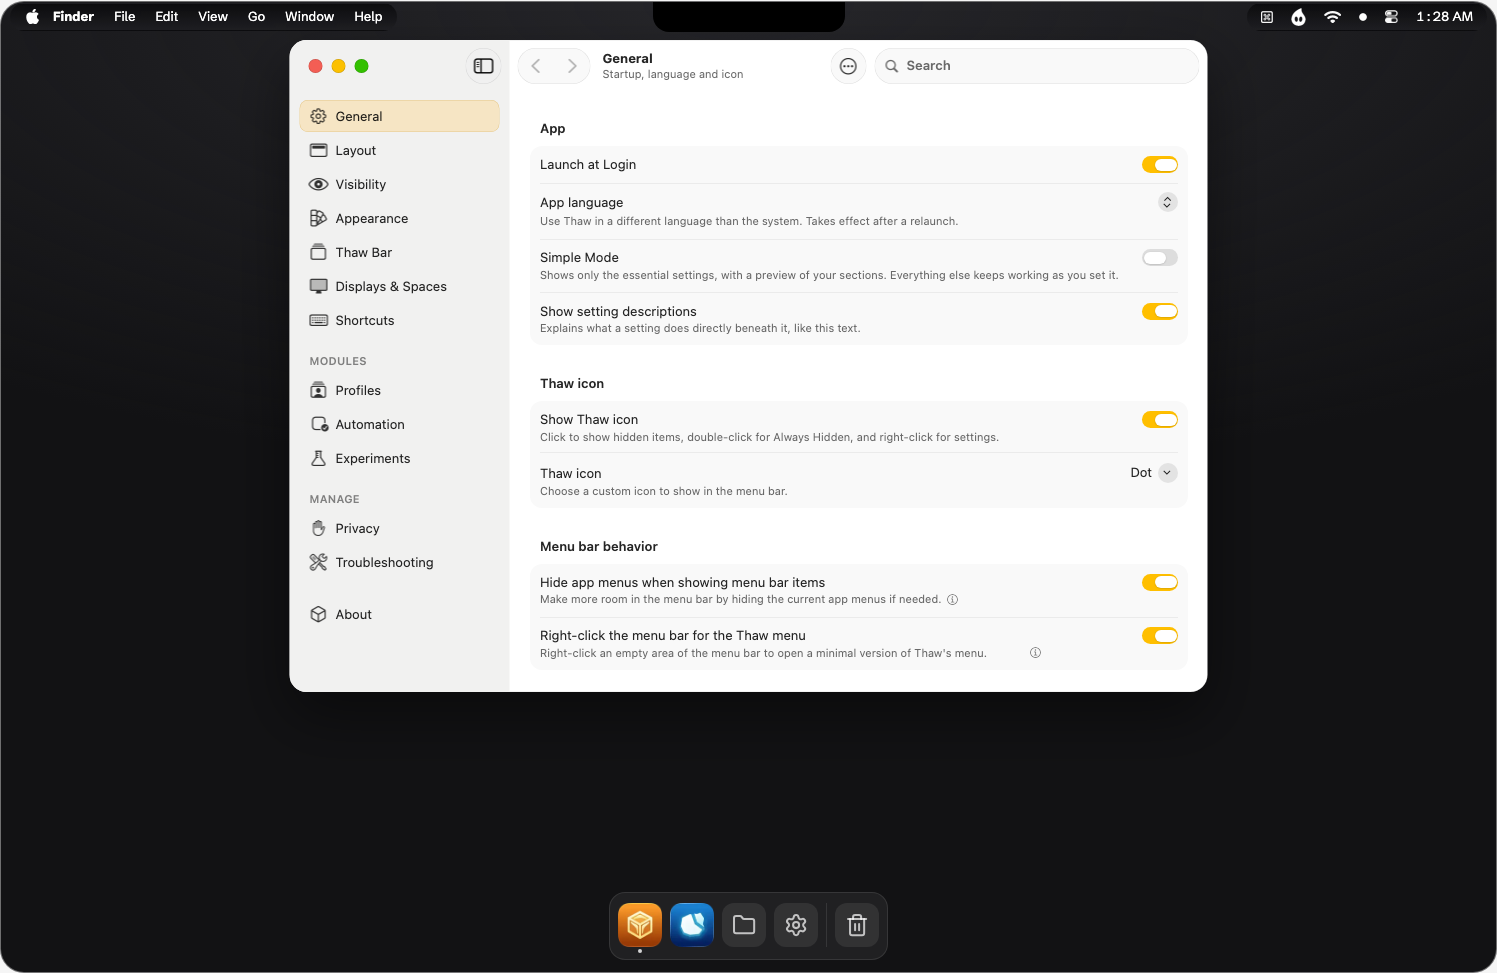
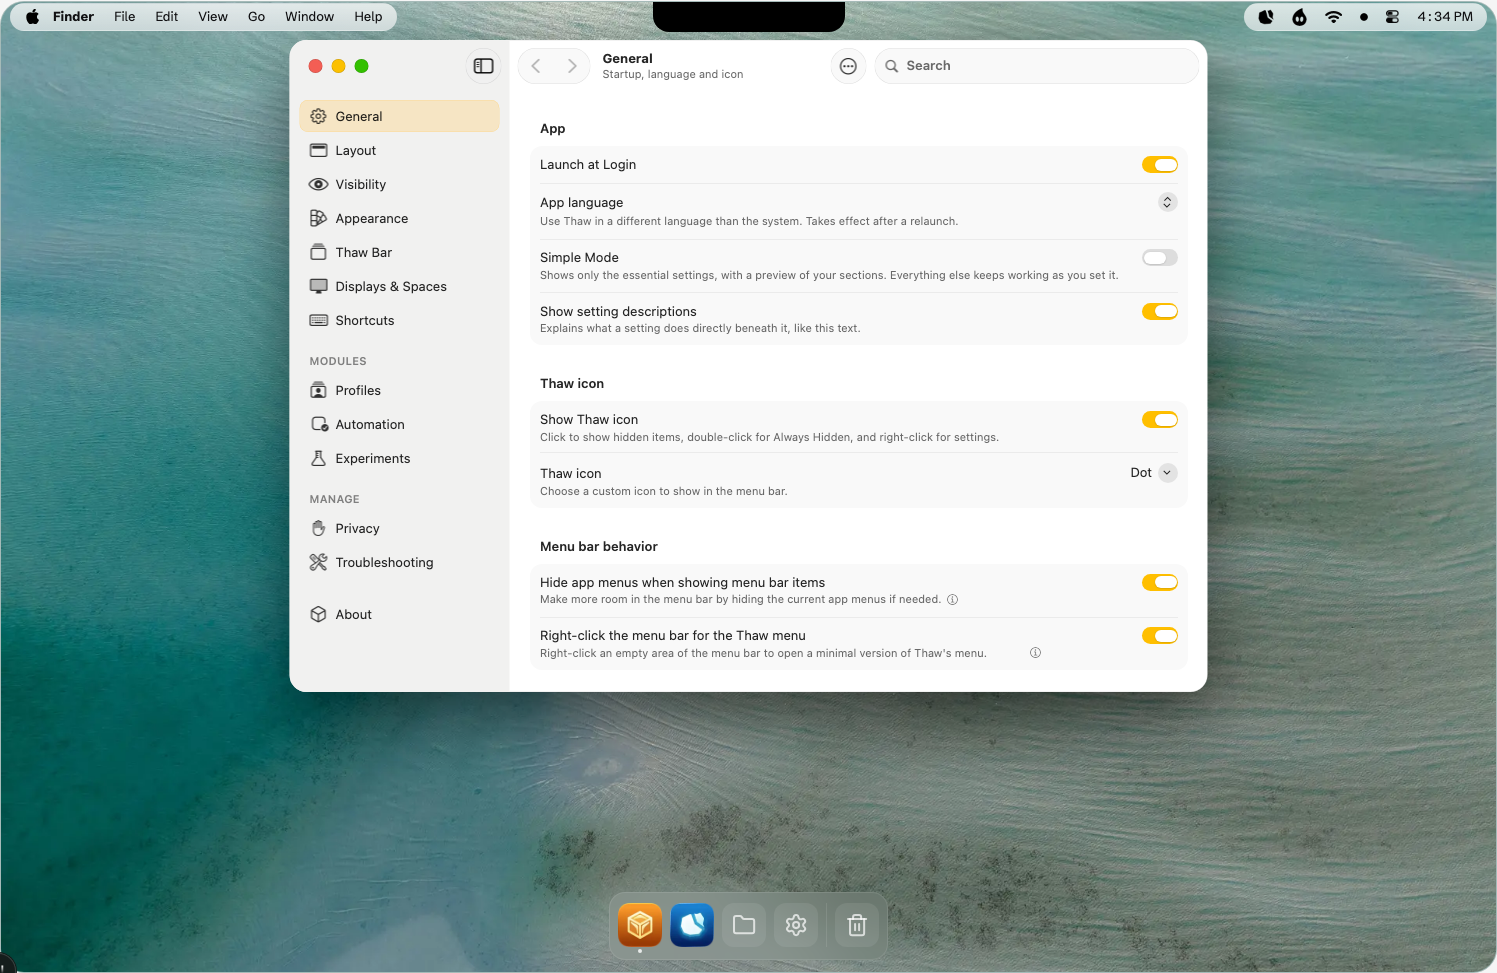
feat(demo): a photograph for each appearance behind the mock desktop
The wallpaper is a photograph in light mode and another in dark, credited on
Built with, and the menu bar's glass follows the appearance. The phone's still
is taken in both. Built with also credits Strix.

diff --git a/components/desktop/menu-bar.tsx b/components/desktop/menu-bar.tsx
@@ -179,7 +179,7 @@ export function MenuBar({
               aria-pressed={model.hiddenShown}
               aria-label={model.hiddenShown ? 'Hide menu bar items' : 'Show hidden menu bar items'}
               tabIndex={showIcon ? 0 : -1}
-              className={`bar-item overflow-hidden outline-none transition-[max-width,opacity] duration-300 focus-visible:ring-2 focus-visible:ring-white motion-reduce:transition-none ${
+              className={`bar-item overflow-hidden outline-none transition-[max-width,opacity] duration-300 focus-visible:ring-2 focus-visible:ring-current motion-reduce:transition-none ${
                 showIcon ? 'max-w-12 opacity-100' : 'pointer-events-none max-w-0 opacity-0'
               }`}
             >
@@ -324,7 +324,7 @@ function Item({
           // Under the item's own left edge, wherever in it the click landed.
           onFloeMenu({ clientX: event.currentTarget.getBoundingClientRect().left });
         }}
-        className={`bar-item outline-none focus-visible:ring-2 focus-visible:ring-white ${
+        className={`bar-item outline-none focus-visible:ring-2 focus-visible:ring-current ${
           dragging ? 'bar-item-dragging' : ''
         }`}
         title={barItems[id]?.name}
@@ -361,13 +361,13 @@ function Surface({
   const tint = tints[appearance.color];
   const shaped = appearance.shape !== 'none';
   const style: CSSProperties = {
+    // Without a tint it is glass, which follows the appearance (.menu-glass in global.css).
     background:
       appearance.tint === 'solid'
         ? `color-mix(in oklab, ${tint.from} 80%, transparent)`
         : appearance.tint === 'gradient'
           ? `linear-gradient(90deg, color-mix(in oklab, ${tint.from} 88%, transparent), color-mix(in oklab, ${tint.to} 88%, transparent))`
-          : // The near-black glass the real bar shows over a dark wallpaper.
-            'linear-gradient(rgb(8 8 10 / 0.82), rgb(30 30 34 / 0.78))',
+          : undefined,
     borderRadius: shaped ? (appearance.ends === 'round' ? 9999 : 6) : 0,
   };
 
@@ -375,8 +375,8 @@ function Surface({
     <div
       style={style}
       className={`flex min-w-0 items-center border px-1 backdrop-blur-md transition-[background,border-radius,opacity] duration-300 motion-reduce:transition-none ${
-        faded ? 'opacity-0' : ''
-      } ${
+        appearance.tint === 'none' ? 'menu-glass' : ''
+      } ${faded ? 'opacity-0' : ''} ${
         shaped ? 'h-7' : 'h-[30px]'
       } ${grow ? 'flex-1' : ''} ${appearance.border ? 'border-white/50' : 'border-transparent'} ${
         appearance.shadow ? 'shadow-lg shadow-black/50' : ''
@@ -401,7 +401,7 @@ export function ThawBar({ model }: { model: MenuBarModel }) {
   return (
     <div
       aria-hidden={!shown}
-      className={`absolute top-[34px] right-[9px] z-30 flex h-9 max-w-[calc(100%-1rem)] origin-top-right items-center overflow-hidden rounded-full border border-white/15 bg-black/45 px-2 text-[13px] shadow-xl backdrop-blur-xl transition-[opacity,transform] duration-300 ease-out motion-reduce:transition-none ${
+      className={`absolute top-[34px] right-[9px] z-30 flex h-9 max-w-[calc(100%-1rem)] origin-top-right items-center overflow-hidden rounded-full menu-glass border border-white/15 px-2 text-[13px] shadow-xl backdrop-blur-xl transition-[opacity,transform] duration-300 ease-out motion-reduce:transition-none ${
         shown ? 'scale-100 opacity-100' : 'pointer-events-none scale-95 opacity-0'
       }`}
     >

diff --git a/components/desktop-lazy.tsx b/components/desktop-lazy.tsx
@@ -4,7 +4,9 @@ import dynamic from 'next/dynamic';
 import Image from 'next/image';
 import { useEffect, useRef, useState } from 'react';
 import thawStill from '@/assets/desktop-still.png';
+import thawStillDark from '@/assets/desktop-still-dark.png';
 import floeStill from '@/assets/desktop-still-floe.png';
+import floeStillDark from '@/assets/desktop-still-floe-dark.png';
 import type { ProductSlug } from '@/lib/shared';
 
 // The demo is the heaviest thing on the home page and sits two screens down it. Its code
@@ -18,8 +20,16 @@ const Desktop = dynamic(() => import('@/components/desktop').then((module) => mo
 
 // The picture a phone gets, of the desktop as it opens for each product.
 const stills = {
-  thaw: { src: thawStill, alt: 'Thaw’s settings window under a menu bar, with a Dock below' },
-  floe: { src: floeStill, alt: 'Floe’s launcher open under a menu bar, with a Dock below' },
+  thaw: {
+    src: thawStill,
+    dark: thawStillDark,
+    alt: 'Thaw’s settings window under a menu bar, with a Dock below',
+  },
+  floe: {
+    src: floeStill,
+    dark: floeStillDark,
+    alt: 'Floe’s launcher open under a menu bar, with a Dock below',
+  },
 };
 
 // The demo's own shape and ground, before it is there.
@@ -41,7 +51,13 @@ function Frame({ product }: { product: ProductSlug }) {
         src={stills[product].src}
         alt={stills[product].alt}
         sizes="100vw"
-        className="size-full object-cover sm:hidden"
+        className="size-full object-cover sm:hidden dark:hidden"
+      />
+      <Image
+        src={stills[product].dark}
+        alt={stills[product].alt}
+        sizes="100vw"
+        className="hidden size-full object-cover max-sm:dark:block"
       />
     </div>
   );

diff --git a/app/global.css b/app/global.css
@@ -214,10 +214,36 @@ html > body[data-scroll-locked] {
   --removed-body-scroll-bar-size: 0px !important;
 }
 
-/* The mock desktop's wallpaper: a plain dark one, a shade off the page's black so the
-   screen reads as a screen, with a little light at the top where the menu bar sits. */
+/* The mock desktop's ground until its photograph is there (components/desktop/index.tsx):
+   about the colour of each one. */
 .desktop-wallpaper {
-  background: radial-gradient(120% 70% at 50% 0%, #26262a 0%, transparent 70%), #121214;
+  background: #7fa9a4;
+}
+
+.dark .desktop-wallpaper {
+  background: #121214;
+}
+
+/* The menu bar's glass over each photograph. The items are white pictures, so on light glass
+   they are turned dark, as macOS turns them over a light wallpaper. */
+.menu-glass {
+  --bar-item-hover: rgb(0 0 0 / 0.1);
+  --bar-item-held: rgb(0 0 0 / 0.16);
+  --bar-item-filter: invert(1);
+  background: linear-gradient(rgb(255 255 255 / 0.74), rgb(244 244 246 / 0.66));
+  color: #111113;
+}
+
+.dark .menu-glass {
+  --bar-item-hover: rgb(255 255 255 / 0.18);
+  --bar-item-held: rgb(255 255 255 / 0.28);
+  --bar-item-filter: none;
+  background: linear-gradient(rgb(8 8 10 / 0.82), rgb(30 30 34 / 0.78));
+  color: #fff;
+}
+
+.menu-glass img {
+  filter: var(--bar-item-filter);
 }
 
 /* A Dock icon. --mag is set by the Dock as the pointer moves along it. */
@@ -326,11 +352,11 @@ html > body[data-scroll-locked] {
 }
 
 .bar-item:hover {
-  background: rgb(255 255 255 / 0.18);
+  background: var(--bar-item-hover, rgb(255 255 255 / 0.18));
 }
 
 .bar-item-dragging {
-  background: rgb(255 255 255 / 0.28);
+  background: var(--bar-item-held, rgb(255 255 255 / 0.28));
   cursor: grabbing;
   opacity: 0.7;
 }

diff --git a/components/desktop/index.tsx b/components/desktop/index.tsx
@@ -1,5 +1,6 @@
 'use client';
 
+import Image from 'next/image';
 import { useRouter } from 'next/navigation';
 import {
   type CSSProperties,
@@ -11,6 +12,8 @@ import {
   useRef,
   useState,
 } from 'react';
+import darkWallpaper from '@/assets/wallpaper-dark.jpg';
+import lightWallpaper from '@/assets/wallpaper-light.jpg';
 import type { ProductSlug } from '@/lib/shared';
 import { Dock } from './dock';
 import { hotkeyMatches } from './floe-controls';
@@ -343,8 +346,26 @@ export function Desktop({ start = 'thaw' }: { start?: ProductSlug }) {
       inert={compact}
       onKeyDown={onKeyDown}
       // The shape of a 14-inch MacBook Pro's screen: 1512 by 982 points.
-      className="desktop-wallpaper relative flex aspect-[1512/982] w-full flex-col overflow-hidden rounded-3xl border text-white"
+      className="desktop-wallpaper relative isolate flex aspect-[1512/982] w-full flex-col overflow-hidden rounded-3xl border text-white"
     >
+      {/* One photograph for each appearance (credited on Built with). The one not showing
+          is lazy, so it is not fetched unless the appearance changes. */}
+      <Image
+        src={lightWallpaper}
+        alt=""
+        fill
+        sizes="(min-width: 1592px) 1512px, 100vw"
+        placeholder="blur"
+        className="-z-10 object-cover dark:hidden"
+      />
+      <Image
+        src={darkWallpaper}
+        alt=""
+        fill
+        sizes="(min-width: 1592px) 1512px, 100vw"
+        placeholder="blur"
+        className="-z-10 hidden object-cover dark:block"
+      />
       <MenuBar
         model={menuBar}
         dispatch={dispatchMenuBar}

diff --git a/lib/built-with.ts b/lib/built-with.ts
@@ -112,6 +112,11 @@ export const runsOn: Tool[] = [
     mark: 'coderabbit',
   },
   {
+    name: 'Strix',
+    use: 'Checks pull requests for security problems.',
+    href: 'https://strix.ai',
+  },
+  {
     name: 'Crowdin',
     use: 'Where the translations are done.',
     href: links.crowdin,
@@ -173,6 +178,16 @@ export const thanks = [
     forWhat:
       'Floe’s login shell environment, its process runner, the tools that answer Ask AI, its hang watchdog and the folder watcher behind hot reload come from Droppy Code, each changed for Floe and used with his permission.',
     href: 'https://getdroppycode.app',
+  },
+  {
+    to: 'A sunset, by marsumilae',
+    forWhat: 'The demo’s wallpaper in dark mode, from Unsplash.',
+    href: 'https://unsplash.com/photos/hbuoPh-YmvE',
+  },
+  {
+    to: 'Shallow water, by Josh Withers',
+    forWhat: 'The demo’s wallpaper in light mode, from Unsplash.',
+    href: 'https://unsplash.com/photos/_xR8PdWofRY',
   },
   {
     to: 'The Nix snowflake, by Simon Frankau and Tim Cuthbertson',

diff --git a/components/desktop/bar-item.tsx b/components/desktop/bar-item.tsx
@@ -24,7 +24,7 @@ export function BarItemView({ id }: { id: string }) {
 
   if (item.kind === 'marker') {
     return (
-      <span className="flex h-5 items-center rounded-full border border-white/60 px-2 text-[11px] font-semibold whitespace-nowrap">
+      <span className="flex h-5 items-center rounded-full border border-current/60 px-2 text-[11px] font-semibold whitespace-nowrap">
         {item.name}
       </span>
     );
